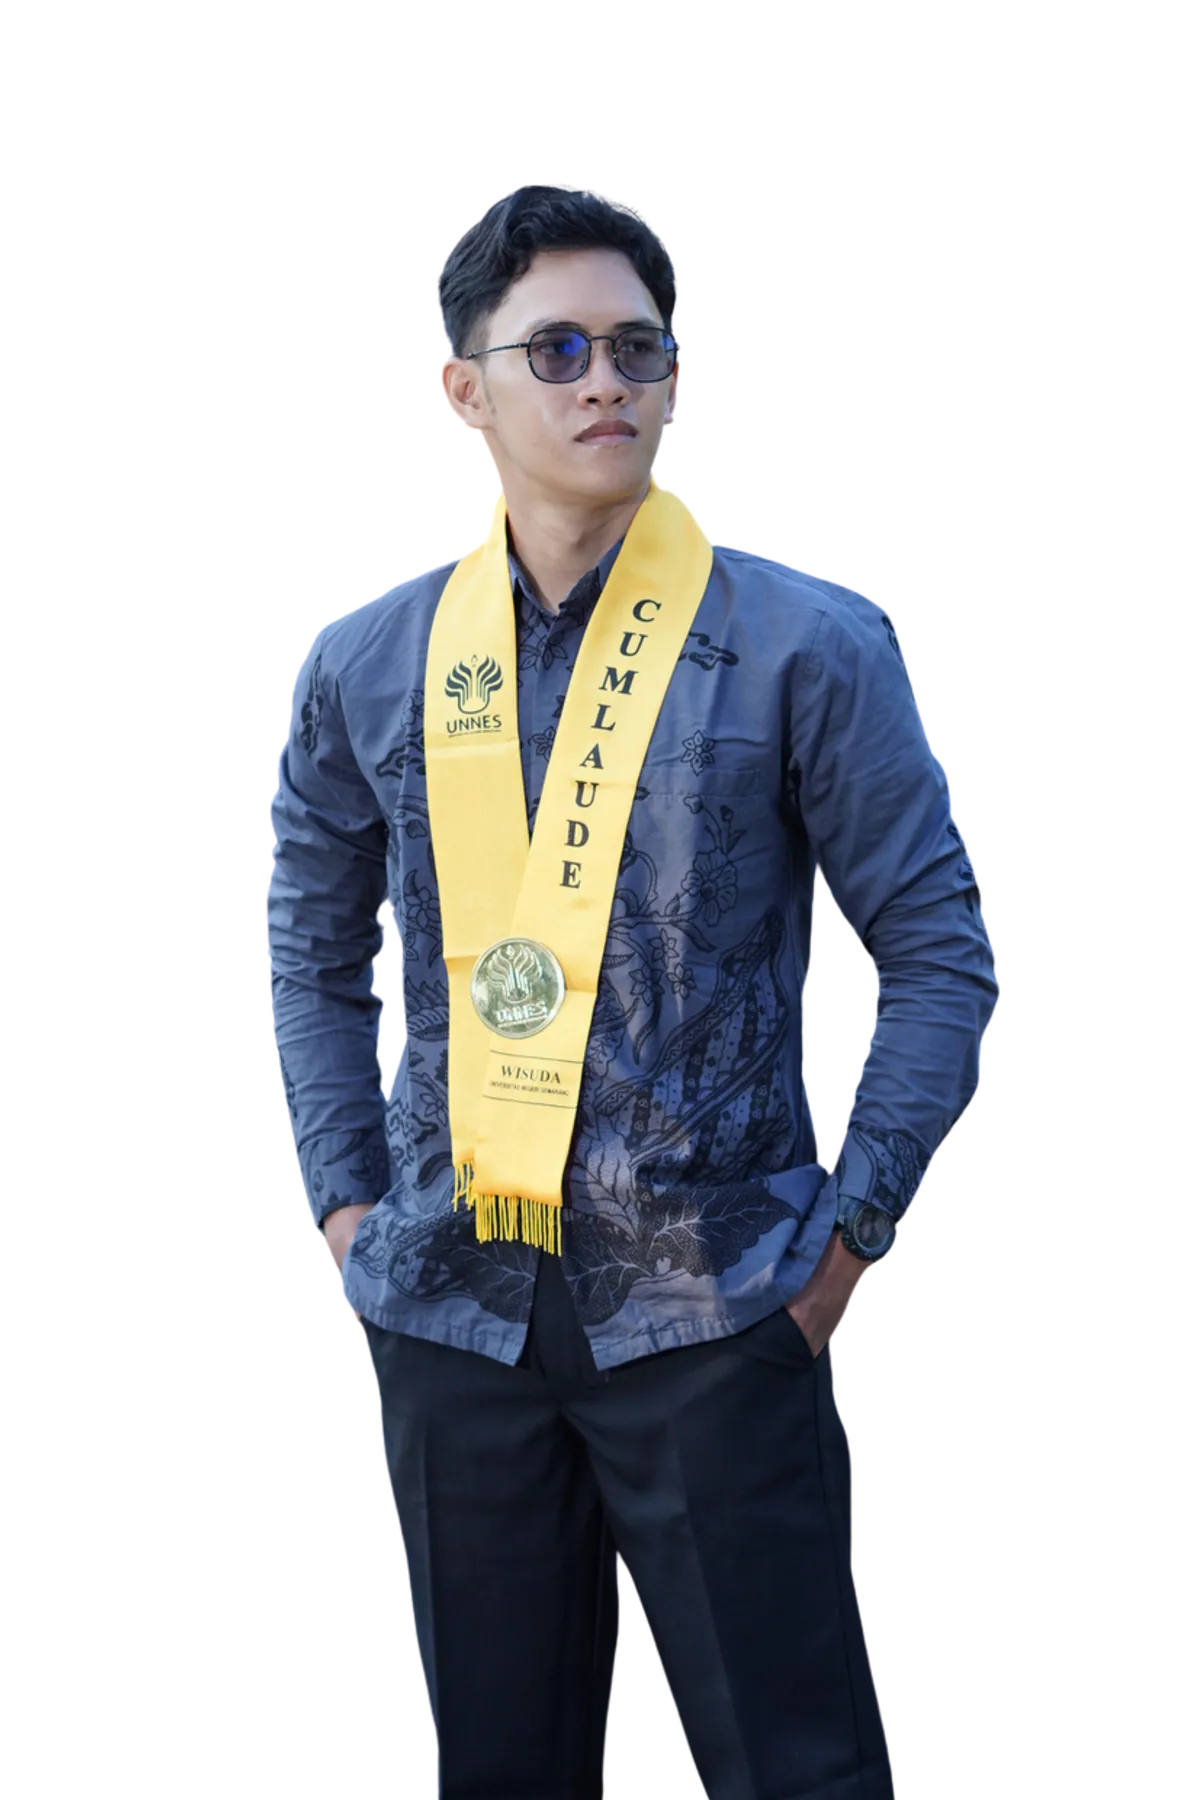
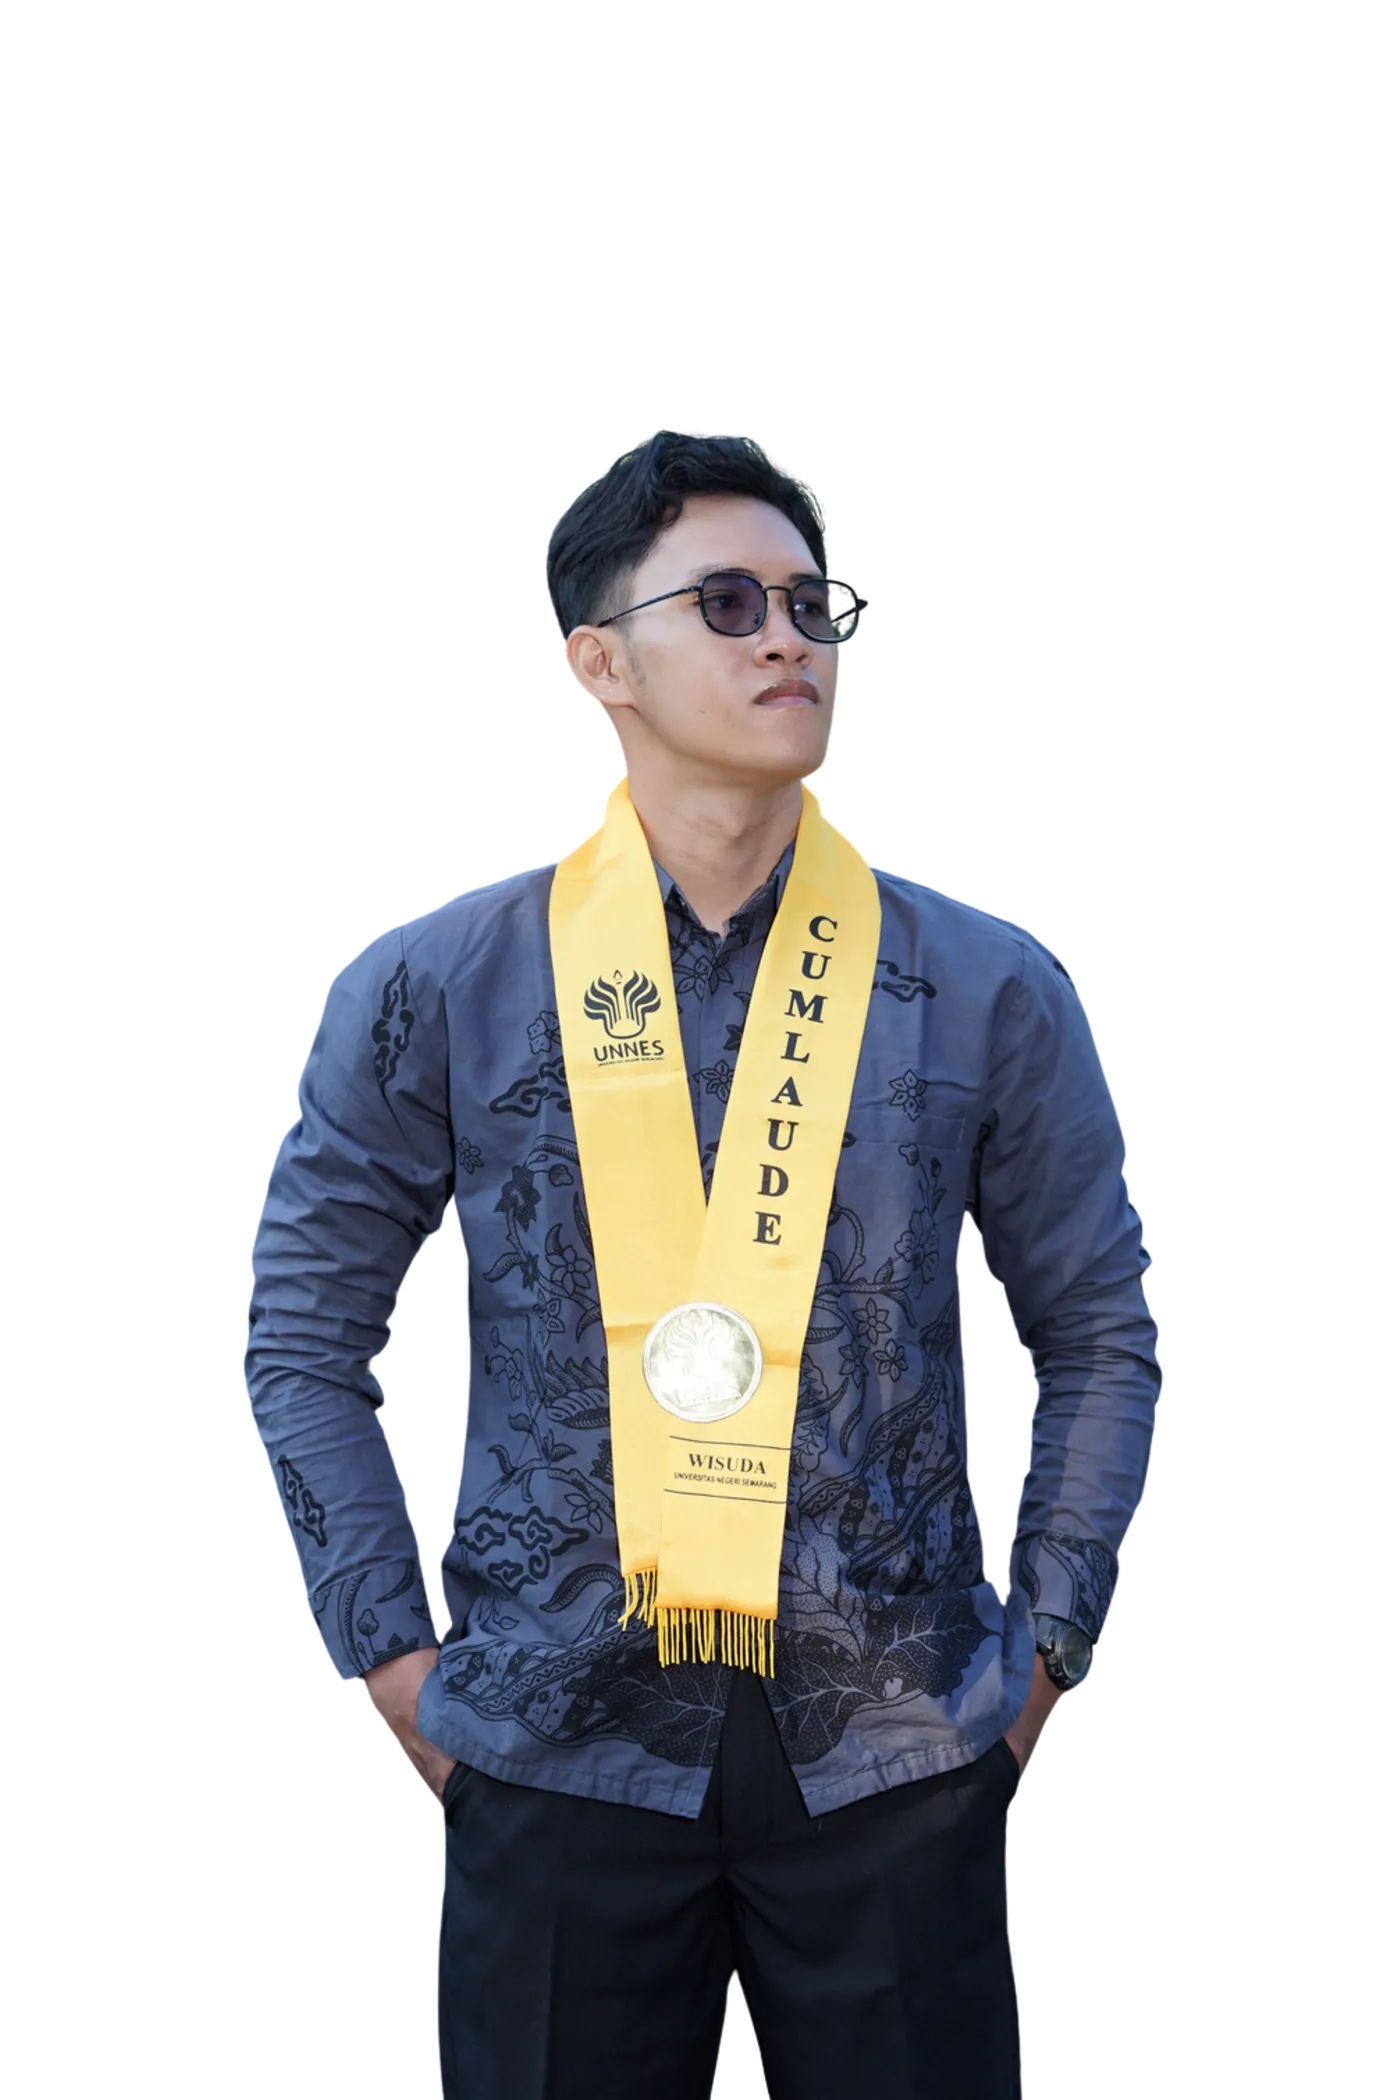
Use Foto Cover 1.png as the hero portrait
`Foto Cover 1.png` (3125x4688) replaces `Foto Cover.png` as the hero source. Both
are cut-outs of the same person; the newer frame is the taller shot, so at the
same 3:4 crop the figure sits larger and the face reads at a usable size. It also
has cleaner side margins (547 left / 533 right, against 559 / 421).

The uncropped companion (`hero/portrait-full.webp`) is switched to the same
source. Keeping those two in step matters: a "full" version of a DIFFERENT
photograph would quietly mislead anyone reviewing the framing later.

CROP MEASURED, NOT GUESSED — and the first attempt was wrong
- The subject occupies x 547..2591 of 3125, which is 0.6544 of the frame width.
  A first attempt at `width: 0.55` was narrower than the subject itself and cut
  296px off the right side, running the arms straight into the frame edge.
- The crop is now 0.7242 wide — the NARROWEST that still contains the whole
  figure — leaving 109px of backdrop on each side, so the arms read as inside the
  picture rather than against it.
- Top edge leaves ~37px above the crown, which is the headroom that matters: an
  earlier pass on the previous photo cut 111px off the top of the head.
- Bottom edge falls below the sash's medal so the whole sash stays in frame.

Verified on the generated file: 1400x1866, subject not clipped on any edge, side
margins balanced at 68px left / 67px right.

VERIFIED
- build 19 pages, check 0/0/0
- verify: 0 broken links, 0 missing images, 0 placeholders, 0 phone leaks
[…]

diff --git a/src/data/profile.ts b/src/data/profile.ts
@@ -97,23 +97,28 @@ const rawProfile: Profile = {
   tagline: 'Learning never stops — every project is a chance to grow.',
 
   /**
-   * The hero portrait. A real photograph taken for the portfolio (originally
-   * `Foto Cover.png`), shot against a black backdrop — which is what makes the
-   * dark editorial hero treatment work.
+   * The hero portrait — `Foto Cover 1.png`, cropped and optimised by the asset
+   * pipeline.
    *
-   * CROPPED to a head-to-chest 3:4 by the asset pipeline, measured from the
-   * subject's actual extent rather than estimated. Two details that were wrong
-   * before and are worth not regressing:
-   *   · the crop starts ABOVE the crown, leaving ~52px of headroom — an earlier
-   *     top edge cut 111px off the top of the head, which reads as a mistake at
-   *     hero size;
-   *   · the bottom edge sits below the cum-laude sash's tassel, so the whole
-   *     sash stays in frame instead of being sliced mid-way.
+   * THIS FILE HAS NO BACKDROP. It is a cut-out: roughly 67% of its pixels are
+   * fully transparent, so the hero renders it as a silhouette standing in the
+   * page (drop-shadow following the alpha shape, a soft pool behind it) rather
+   * than a pasted rectangle. An earlier revision gave it a border and a shadow
+   * box, which drew a visible rectangle around a person who has none — that is
+   * what makes a cut-out read as "stuck on", and it is worth not regressing.
    *
-   * NOTE the file has NO BACKDROP — it is a cut-out with roughly 40% of its
-   * pixels fully transparent, so the hero renders it as a silhouette in the page
-   * (drop-shadow, soft pool) rather than a pasted rectangle. The uncropped
-   * original is still produced as `/images/hero/portrait-full.webp`.
+   * CROPPED to a head-to-chest 3:4, measured from the subject's actual extent
+   * rather than estimated (x 547..2591, y 963..4687 of 3125x4688). Three details
+   * that were wrong before and must not regress:
+   *   · the crop leaves ~37px of headroom above the crown. An earlier pass cut
+   *     111px off the top of the head, which reads as a mistake at hero size;
+   *   · the width (0.7242) is the NARROWEST that still contains the whole figure.
+   *     The subject spans 0.6544 of the frame, so a tighter crop sliced the arms
+   *     off at the edge — a 0.55 attempt cut 296px;
+   *   · the bottom edge falls below the sash's medal, so the whole sash stays in
+   *     frame instead of being sliced mid-way.
+   *
+   * The uncropped original is still produced as `/images/hero/portrait-full.webp`.
    */
   portrait: {
     src: '/images/hero/portrait.webp',

diff --git a/src/data/asset-dims.generated.ts b/src/data/asset-dims.generated.ts
@@ -7,7 +7,7 @@
  */
 export const imageDims: Record<string, [number, number]> = {
   '/images/hero/portrait.webp': [1400, 1866],
-  '/images/hero/portrait-full.webp': [1200, 1800],
+  '/images/hero/portrait-full.webp': [1400, 2100],
   '/images/experience/airnav-onboarding.webp': [1800, 1012],
   '/images/experience/airnav-building.webp': [639, 480],
   '/images/experience/pln-work.webp': [1500, 999],
